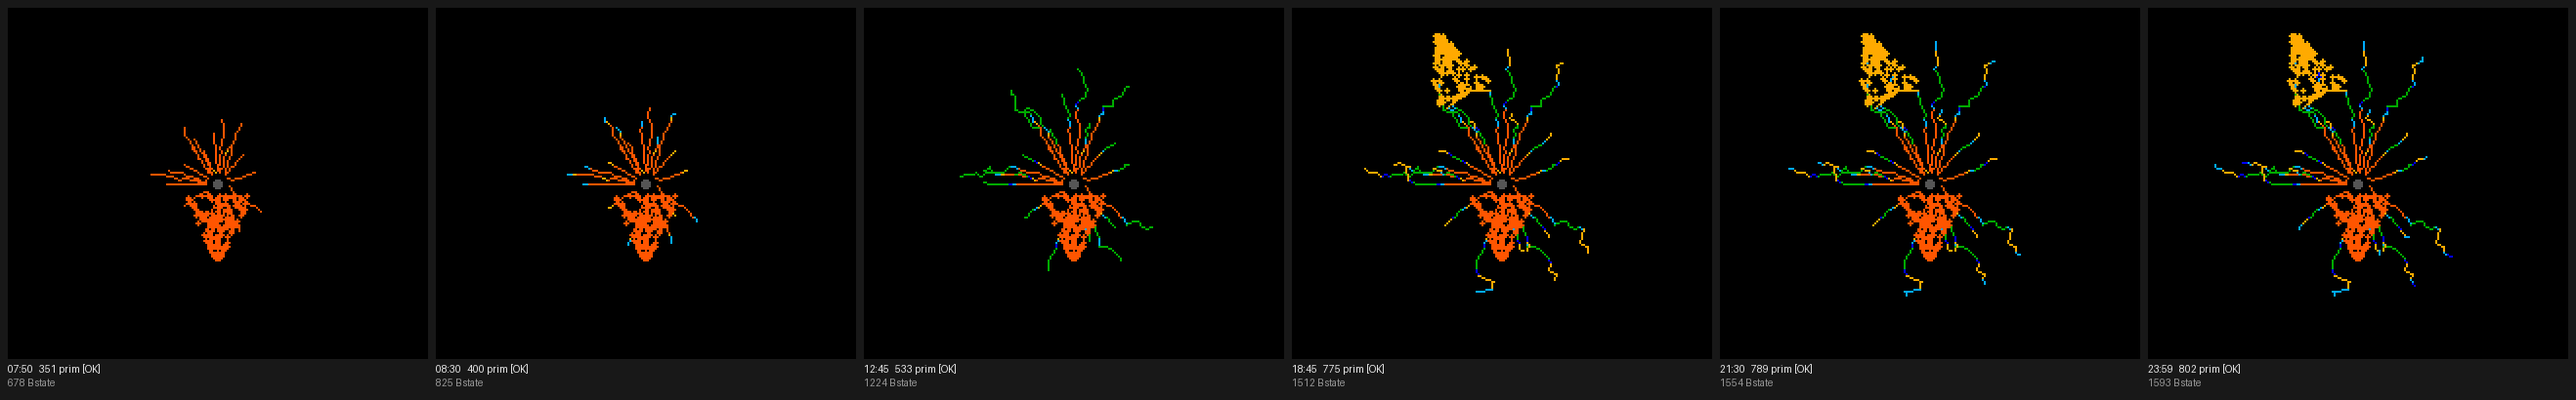
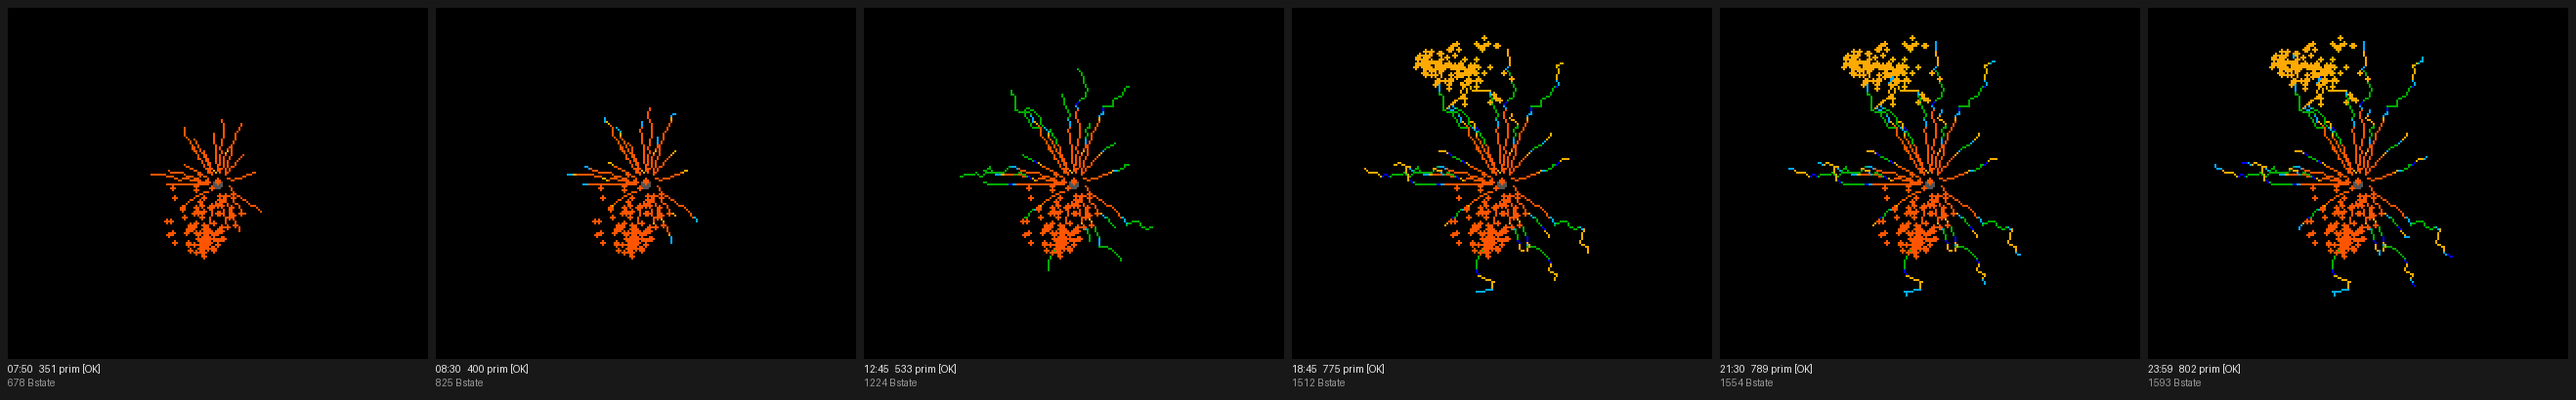
biobloom: break colony into sub-lobes for a rough edge
Replace the smooth tapering teardrop with a chain of 2-4 sub-lobes that march
outward and shrink, each a small dot cluster. The frontier reads lumpy and
organic instead of a clean wedge, while the colony still points outward along
its arm.

diff --git a/sketches/algos/biobloom.py b/sketches/algos/biobloom.py
@@ -189,21 +189,33 @@ class BioBloom:
         ang = b["ang"]
         fx, fy = isin(ang + 64), isin(ang)        # outward unit (cos, sin)*127
         px, py = isin(ang + 128), isin(ang + 64)  # perpendicular unit
-        reach = b["reach"]
-        n = reach * 3 + b["w"] * 4
+        reach, w, salt = b["reach"], b["w"], b["salt"]
+
+        # a chain of sub-lobes marching outward and shrinking -> rough, lumpy
+        # frontier rather than a smooth teardrop
+        nlob = 2 + imod(hash16(salt, 0, 5), 3)    # 2..4 lobes
+        lob = []
+        j = 0
+        while j < nlob:
+            lf = idiv((j + 1) * 230, nlob + 1) + imod(hash16(salt, j, 6), 26)
+            along = idiv(reach * lf, 256)
+            po = imod(hash16(salt, j, 7), 2 * w + 1) - w     # perp wobble
+            lx = b["bx"] + idiv(along * fx, 127) + idiv(po * px, 127)
+            ly = b["by"] + idiv(along * fy, 127) + idiv(po * py, 127)
+            lr = 2 + idiv(w * (nlob - j), nlob)              # outer lobes smaller
+            lob.append((lx, ly, lr))
+            j += 1
+
+        n = reach * 2 + w * 5
         if n > 150:
             n = 150
-        salt = b["salt"]
         k = 0
         while k < n:
-            f = imod(hash16(salt, k, 1), 256)     # 0..255 fraction along reach
-            along = idiv(reach * f, 256)
-            mw = idiv(b["w"] * (300 - f), 300)     # taper -> teardrop pointing out
-            if mw < 1:
-                mw = 1
-            side = imod(hash16(salt, k, 2), 2 * mw + 1) - mw
-            x = b["bx"] + idiv(along * fx, 127) + idiv(side * px, 127)
-            y = b["by"] + idiv(along * fy, 127) + idiv(side * py, 127)
+            lx, ly, lr = lob[imod(hash16(salt, k, 3), nlob)]
+            rr = imod(hash16(salt, k, 1), lr + 1)
+            a2 = imod(hash16(salt, k, 2), 256)
+            x = lx + idiv(rr * isin(a2 + 64), 127)
+            y = ly + idiv(rr * isin(a2), 127)
             dc.fillCircle(x, y, 1)
             k += 1
 
